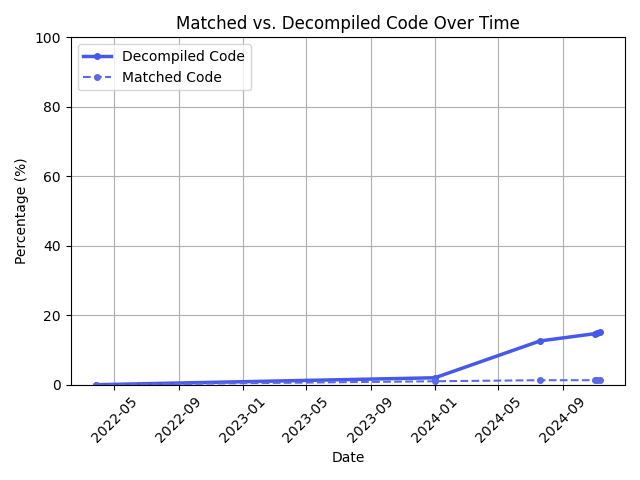
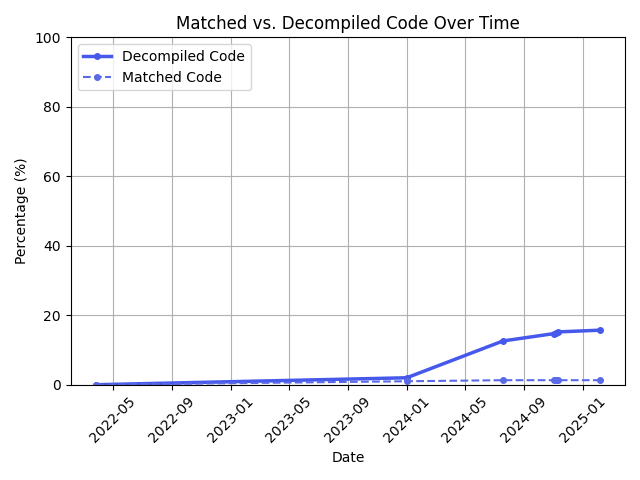
Update progress

diff --git a/scripts/generate-chart.py b/scripts/generate-chart.py
@@ -7,7 +7,8 @@ dates = [
     datetime(2024, 7, 19),
     datetime(2024, 11, 1),
     datetime(2024, 11, 5),
-    datetime(2024, 11, 10)
+    datetime(2024, 11, 10),
+    datetime(2025, 2, 5)
 ]
 
 decompiled_code = [
@@ -16,11 +17,13 @@ decompiled_code = [
     12.6,
     14.7,
     14.9,
-    15.2
+    15.2,
+    15.7
 ]
 matched_code = [
     0.0,
     1.0,
+    1.3,
     1.3,
     1.3,
     1.3,
